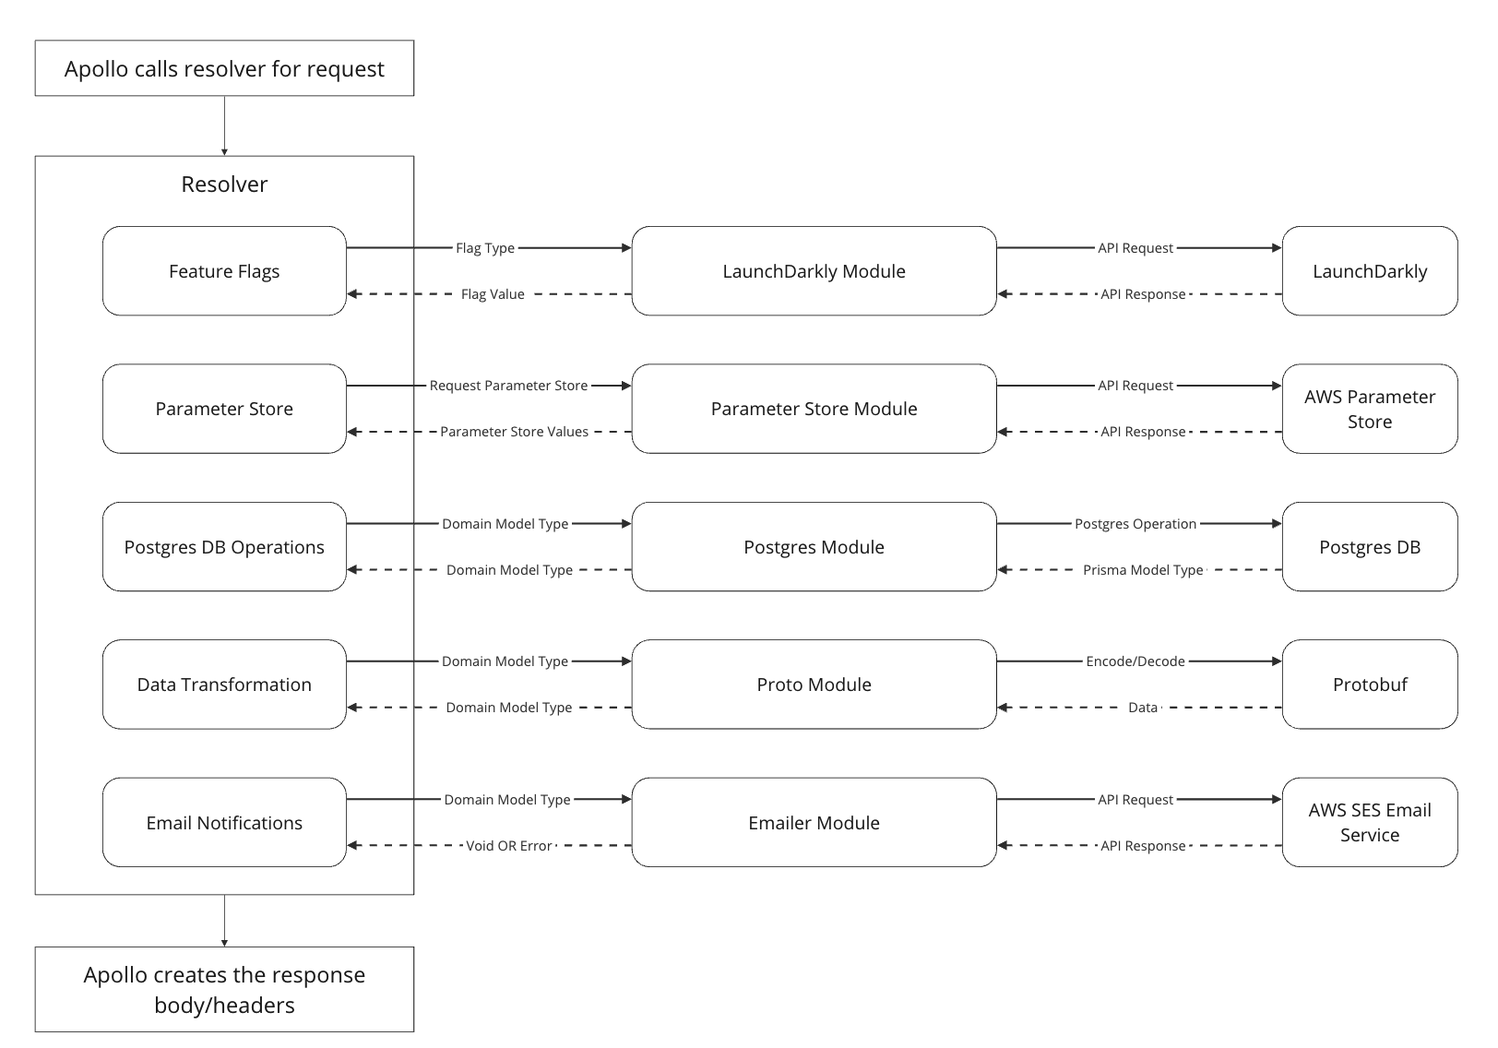
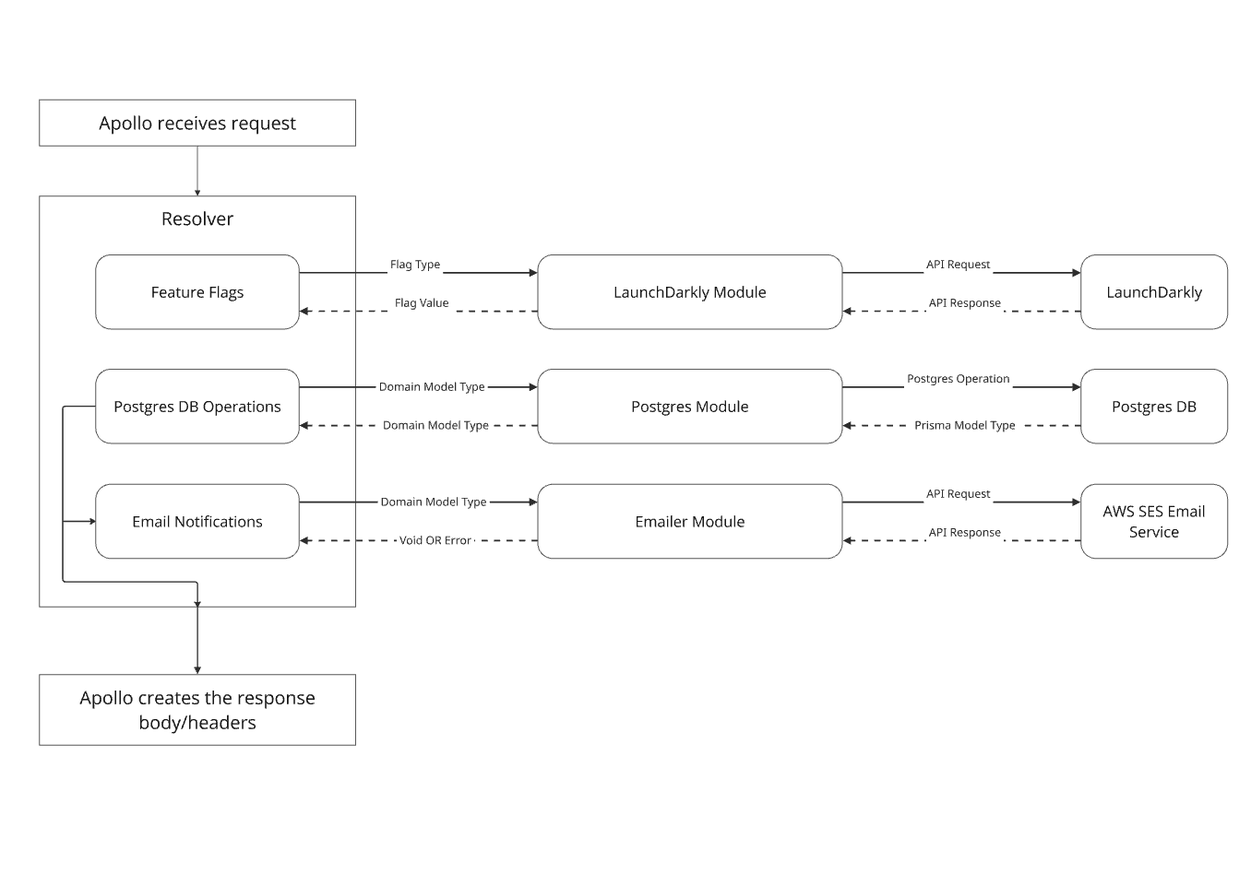
MCR-4193: remove all refs to protobufs in documentation (#3705)
* Replace diagrams

* Update docs

diff --git a/services/app-web/src/pages/SubmissionSideNav/RateSummarySideNav.tsx b/services/app-web/src/pages/SubmissionSideNav/RateSummarySideNav.tsx
@@ -88,7 +88,7 @@ export const RateSummarySideNav = () => {
         }
 
         recordJSException(err)
-        return <GenericErrorPage /> // api failure or protobuf decode failure
+        return <GenericErrorPage /> // api failure
     } else if (!loggedInUser || !rate || rate.status === 'DRAFT') {
         return <GenericErrorPage />
     }

diff --git a/services/app-web/src/pages/SubmissionSideNav/SubmissionSideNav.tsx b/services/app-web/src/pages/SubmissionSideNav/SubmissionSideNav.tsx
@@ -86,7 +86,7 @@ export const SubmissionSideNav = () => {
         }
 
         recordJSException(err)
-        return <GenericErrorPage /> // api failure or protobuf decode failure
+        return <GenericErrorPage /> // api failure
     } else if (!loggedInUser || !contract) {
         return <GenericErrorPage />
     }

diff --git a/README.md b/README.md
@@ -3,7 +3,7 @@
 <a href="https://codeclimate.com/github/Enterprise-CMCS/managed-care-review/maintainability"><img src="https://api.codeclimate.com/v1/badges/9ec6eca87429a4572f67/maintainability" /></a><a href="https://codeclimate.com/github/Enterprise-CMCS/managed-care-review/test_coverage"><img src="https://api.codeclimate.com/v1/badges/9ec6eca87429a4572f67/test_coverage" /></a>
 [![CodeQL](https://github.com/Enterprise-CMCS/managed-care-review/actions/workflows/codeql.yml/badge.svg?branch=main)](https://github.com/Enterprise-CMCS/managed-care-review/actions/workflows/codeql.yml)
 
-Managed Care Review is an application that accepts Managed Care contract and rate submissions from states and packages them for review by CMS. It uses a Serverless architecture (services deployed as AWS Lambdas) with React and Node as client/server and GraphQL as the api protocol. The codebase is a Typescript monorepo. An [architectural diagram](.images/architecture.svg) is also available.
+Managed Care Review is an application that accepts Managed Care contract and rate submissions from states and packages them for review by CMS. It uses a Serverless architecture (services deployed as AWS Lambdas) with React and Node as client/server and GraphQL as the api protocol. The codebase is a TypeScript monorepo. An [architectural diagram](.images/architecture.svg) is also available.
 
 ## Key Documentation
 
@@ -32,8 +32,6 @@ For monorepo tooling we just rely on the workspace configuration of `pnpm`. If g
 To get the tools needed for local development, you can run:
 
 ```bash
-brew tap yoheimuta/protolint
-brew install pnpm direnv shellcheck protolint detect-secrets
 pnpm husky install
 ```
 
@@ -98,7 +96,7 @@ Run all the services locally with the command `./dev local`.
 
 See the above Requirements section if the command asks for any prerequisites you don't have installed.
 
-The ./dev script is written in typescript in `./src`. The entry-point is `./src/dev.ts`, it manages running the moving pieces locally: the API, the database, the file store, and the frontend.
+The ./dev script is written in TypeScript in `./src`. The entry-point is `./src/dev.ts`, it manages running the moving pieces locally: the API, the database, the file store, and the frontend.
 
 Local dev is built around the Serverless plugin [`serverless-offline`](https://github.com/dherault/serverless-offline). `serverless-offline` runs an API gateway locally configured by `./services/app-api/serverless.yml` and hot reloads your lambdas on every save. The plugin [`serverless-s3-local`](https://github.com/ar90n/serverless-s3-local) stands up the local s3 in a similar fashion.
 
@@ -148,7 +146,7 @@ Run web app locally, but configured to run against a deployed backend
 
 #### Run cypress tests in a linux docker container
 
-We've had a number of issues only reproduce in cypress being run in Github Actions. We've added tooling to dev to run our cypress tests locally in a linux docker container which has been able to reproduce those issues. To do so, you'll need to have docker installed and running and run the app locally with `./dev local` like normal to provide the api & postgres & s3 (you could just run those three services if you like). Unfortunately, docker networking is a little weird, so we have to run a separate `web` in order for the cypress tests to be able to reach our app correctly. That's started with `./dev local web --for-docker`. Finally you can run the tests themselves with `./dev test browser --in-docker`. So minimally:
+We've had a number of issues only reproduced in cypress being run in GitHub Actions. We've added tooling to dev to run our cypress tests locally in a linux docker container which has been able to reproduce those issues. To do so, you'll need to have docker installed and running and run the app locally with `./dev local` like normal to provide the api & postgres & s3 (you could just run those three services if you like). Unfortunately, docker networking is a little weird, so we have to run a separate `web` in order for the cypress tests to be able to reach our app correctly. That's started with `./dev local web --for-docker`. Finally, you can run the tests themselves with `./dev test browser --in-docker`. So minimally:
 
 ```bash
 ./dev local --api --postgres --s3
@@ -164,7 +162,7 @@ We are using Postgres as our primary data store and [Prisma](https://prisma.io) 
 
 We describe our database tables and relationships between them in our Prisma schema at /services/app-api/prisma/schema.prisma. If you want to change our database, start by changing [that schema file](https://www.prisma.io/docs/concepts/components/prisma-schema) how you like.
 
-For more suggestions about how to run a migration see [how to complete migrations](/docs//technical-design/howto-migrations.md)
+For more suggestions about how to run a migration, see [how to complete migrations](/docs//technical-design/howto-migrations.md)
 
 ## Build & Deploy in CI
 
@@ -174,17 +172,17 @@ This application is built and deployed via GitHub Actions. See `.github/workflow
 
 This application is deployed into three different AWS accounts: Dev, Val, and Prod. Anytime the main branch is updated (i.e. a PR is merged) we deploy to each environment in turn. If interacting with those accounts directly, each one will require different AWS keys.
 
-In the Dev account, in addition to deploying the main branch, we deploy a full version of the app on every branch that is pushed that is not the main branch. We call these deployments "review apps" since they host all the changes for a PR in a full deployment. These review apps are differentiated by their Serverless "stack" name. This is set to the branch name and all infra ends up being prefixed with it to keep from there being any overlapping.
+In the Dev account, in addition to deploying the main branch, we deploy a full version of the app on every branch that is pushed that is not the main branch. We call these deployments "review apps" since they host all the changes for a PR in a full deployment. These review apps are differentiated by their Serverless "stack" name. This is set to the branch name, and all infra ends up being prefixed with it to keep from there being any overlapping.
 
 #### CI stage skipping script
 
-We have a script (`getChangedServices`) that runs in CI to check if a service needs to be re-deployed due to your most recent commit or if a service can be skipped in order to save CI deploy time. For example, if you're just making changes to `app-web`, it's likely that you won't need to re-deploy any infra services, such as postgres, after an initial branch deploy. However, if you do need your branch to be fully re-deployed, you can add the string `force-ci-run` to your commit message and the entire deploy workflow will be run. If you have a failing Cypress container and want to skip over deploying infra and the application, use the string `cypress re-run` in a commit message and the `getChangedServices` script will skip you to the Cypress run (unit tests will still run, but it still saves time).
+We have a script (`getChangedServices`) that runs in CI to check if a service needs to be re-deployed due to your most recent commit or if a service can be skipped in order to save CI deploy time. For example, if you're just making changes to `app-web`, it's likely that you won't need to re-deploy any infra services, such as postgres, after an initial branch deploys. However, if you do need your branch to be fully re-deployed, you can add the string `force-ci-run` to your commit message and the entire deployment workflow will be run. If you have a failing Cypress container and want to skip over deploying infra and the application, use the string `cypress re-run` in a commit message and the `getChangedServices` script will skip you to the Cypress run (unit tests will still run, but it still saves time).
 
-You can see the deploys for review apps [here](https://github.com/Enterprise-CMCS/managed-care-review/actions/workflows/deploy.yml)
+You can see the deployments for review apps [here](https://github.com/Enterprise-CMCS/managed-care-review/actions/workflows/deploy.yml)
 
 ### Building scripts
 
-When a script gets too complicated, we prefer it not be written in Bash. Since we're using typescript for everything else, we're writing scripts in typescript as well. They are located in /src/scripts and are compiled along with dev.ts any time you execute `./dev`. They can be invoked like `node build_dev/scripts/add_cypress_test_users.js`
+When a script gets too complicated, we prefer it not be written in Bash. Since we're using typescript for everything else, we're writing scripts in TypeScript as well. They are located in /src/scripts and are compiled along with dev.ts any time you execute `./dev`. They can be invoked like `node build_dev/scripts/add_cypress_test_users.js`
 
 ## Infrastructure Dependencies
 
@@ -192,7 +190,7 @@ These dependencies can be installed if you are wanting or needing to run `aws` o
 
 Before beginning, it is assumed you have:
 
-1. Added your public key to your GitHub account
+1. Add your public key to your GitHub account
 2. Cloned this repo locally
 
 The following should install everything you need on macOS:
@@ -205,7 +203,7 @@ brew install awscli shellcheck
 
 AWS access is managed via Active Directory and Cloudtamer.
 
-In order to run commands against a live AWS environment you need to configure AWS keys to grant you authorization to do so. You will need this for sure to run the `./dev hybrid` command, and might be necessary to run any serverless commands directly by hand.
+In order to run commands against a live AWS environment, you need to configure AWS keys to grant you authorization to do so. You will need this for sure to run the `./dev hybrid` command, and might be necessary to run any serverless commands directly by hand.
 
 We can use the `ctkey` tool to make setting up the appropriate access easier, which is described below.
 
@@ -259,7 +257,7 @@ export AWS_ACCOUNT_ID=''
 
 Your `CTKEY_USERNAME` and `CTKEY_PASSWORD` should be the credentials you use to log in to EUA. They will need to be updated whenever your EUA password expires and has been rotated.
 
-Your `AWS_ACCOUNT_ID` is the ID of the environment you wish to access locally. Typically this will be the AWS ID of the dev environment.
+Your `AWS_ACCOUNT_ID` is the ID of the environment you wish to access locally. Typically, this will be the AWS ID of the dev environment.
 
 Currently, `ctkey-wrapper` requires the user to be running the openconnect-tinyproxy
 container [here](https://github.com/trussworks/openconnect-tinyproxy) to connect
@@ -277,18 +275,18 @@ which serverless
 
 This will output the path to the tool, which is likely installed locally to your `~/Library/pnpm/*` path.
 
-We can then verify things are working by running any serverless command , e.g. `cd services/app-api && serverless info --stage main`. This command should print information and not return any Serverless errors around AWS credentials. If you do receive errors about AWS credentials, the tool may have been accidentally installed as a version `> 4.2.3` and you'll need to downgrade to that version. Unfortunately, Serverless decided to break local development by requiring AWS connections in versions after `4.2.3`, so we've pinned our version until we can fully move to AWS CDK in Spring 2025.
+We can then verify things are working by running any serverless command, e.g. `cd services/app-api && serverless info --stage main`. This command should print information and not return any Serverless errors around AWS credentials. If you do receive errors about AWS credentials, the tool may have been accidentally installed as a version `> 4.2.3` and you'll need to downgrade to that version. Unfortunately, Serverless decided to break local development by requiring AWS connections in versions after `4.2.3`, so we've pinned our version until we can fully move to AWS CDK in Spring 2025.
 
 ## Adding a Service
 
-The Serverless framework calls encapsulated units of lambdas + AWS infrastructure a "service", so we've inherited this terminology from that project. All of our services live under the `./services/` directory. If you need to add a new service to the project a few things need to happen:
+The Serverless framework calls encapsulated units of lambdas + AWS infrastructure a "service", so we've inherited this terminology from that project. All of our services live under the `./services/` directory. If you need to add a new service to the project, a few things need to happen:
 
 - Add a `serverless.yml` file to the root directory of this new service. You can copy off of an existing config or run the `serverless` command in `./services/${service-name}` to use one of their starter templates.
 - If this service is going to require js or ts code, you'll want to create a `src` directory as well as copy over the appropriate `tsconfig.json` and `.eslintrc` configs. Refer to one of the existing services to get an idea of how we are currently doing this.
 
 You'll need to add this service to our deployment GitHub Actions workflows:
 
-- If it is only infrastructure it can be added to `./.github/workflows/deploy-infra-to-env.yml`.
+- If it is only infrastructure, it can be added to `./.github/workflows/deploy-infra-to-env.yml`.
 - Services that include application code can be added to `./.github/workflows/deploy-app-to-env.yml`.
 - We have a CI script that skips branch redeploys when possible in `./scripts/get-changed-services/index.ts`. Make sure your service is added to that list.
 

diff --git a/docs/technical-design/creating-and-testing-endpoints.md b/docs/technical-design/creating-and-testing-endpoints.md
@@ -25,12 +25,11 @@ We have two ways to access the Apollo Explorer tool:
 >   - Depending on the user, performing certain GraphQL operations will be restricted. The operation authorization is done in the resolvers, `services/app-api/src/resolvers`.
 >   - For example, a state user will not be allowed to unlock a submission. The GraphQL operation will return an unauthorized error.
 >- Once logged in, input this url `[hostname]/dev/graphql-explorer` to access the tool.
->- Create a new workspace in the operations editor to build a new request (`+` sign in main editor).
->- Use the Documentation panel to create your request. Walk through the schema and select fields to add to your request. Add any input parameters in the `variables` section. For more on usage of the query builder see [video tutorial](https://www.youtube.com/watch?v=j8b0Bda_TIw).
->- If you need to make quickly decode/encode and make changes to protos use [ProtobufPal](https://www.protobufpal.com/). This tool should be used only with test and anonymized data (don't feed any private data in here).
+>- Create a new workspace in the operation editor to build a new request (`+` sign in the main editor).
+>- Use the Documentation panel to create your request. Walk through the schema and select fields to add to your request. Add any input parameters in the `variables` section. For more on usage of the query builder, see [video tutorial](https://www.youtube.com/watch?v=j8b0Bda_TIw).
 
 **External Apollo Explorer Tool**:
->Apollo Explorer is embedded in the local deployment, so there's no need to access it externally, except in rare cases like executing GraphQL operations as user role `ADMIN_USER` when no users with that role has been added.
+>Apollo Explorer is embedded in the local deployment, so there's no need to access it externally, except in rare cases like executing GraphQL operations as user role `ADMIN_USER` when no users with that role have been added.
 >
 >To connect Apollo Explorer to our local GraphQL api, we must manually configure connection settings in the Explorer tool.
 >
@@ -176,7 +175,7 @@ dataExport: () => Promise<DataExportType | undefined>
 And then in the NewPostgresStore:
 
 ```typescript
-dataExport: () => dataExport(client),
+dataExport: () => dataExport(client)
 ```
 
 When we access the store in our app, the dataExport method we defined above will be available to us.
@@ -219,7 +218,7 @@ import { dataExportResolver } from './dataExport'
 And also add it to the Resolvers object. We've made a query, so this line will be added to the query methods.
 
 ```typescript
-dataExport: dataExportResolver(store),
+dataExport: dataExportResolver(store)
 ```
 ### Generating prisma code and types
 
@@ -259,7 +258,7 @@ Specifically, `cmsUserResolver` adds `stateAssignments` to CMS users returned fr
 This is set up in `configureResolvers` just like basic resolvers. In addition, there is code added to `codegen.yml` the config file for our graphql-to-typescript dependency.
     - See `mappers` key in `codegen.yml`. By adding the specific typescript definition we want to be returned, we ensure that our GRAPHQL resolvers return types match types elsewhere in the application.
 
-Again, this isn't needed for every piece of data returned by GraphQL. It is useful when dealing with those data model types that persist through the frontend and backend. They may have long definitions or validators set up outside both Prisma and GraphQL (like health plan package which is defined by proto or rates and contracts which are defined in zod).
+Again, this isn't needed for every piece of data returned by GraphQL. It is useful when dealing with those data model types that persist through the frontend and backend. They may have long definitions or validators set up outside both Prisma and GraphQL (like rate and contract types which are defined in zod).
 
 
 ## Lambda

diff --git a/docs/technical-design/graphql-resovler-design.md b/docs/technical-design/graphql-resovler-design.md
@@ -4,14 +4,15 @@
 Resolver functions are responsible for handling requests made to the MC-Review GraphQL API and populating data for the response on the backend. Between receiving the request data and returning a response, the `app-api` resolvers perform various tasks for generating the response.
 
 These tasks include:
-- Business logic, data transformation, and validations
+- Business logic
+- Validations
 - Database operations
 - Third party API calls
    - SES Email
    - LaunchDarkly Feature Flags
 - Error handling
 
-The resolvers often do not directly contain the code to perform these tasks, instead they call functions specific for each task. Importantly we use types defined in our [domain models](design-patterns.md#domain-models) as the internal communication interface on the backend for different services as an attempt to decrease the coupling of our code.
+The resolvers often do not directly contain the code to perform these tasks; instead, they call functions specific for each task. Importantly, we use types defined in our [domain models](design-patterns.md#domain-models) as the internal communication interface on the backend for different services as an attempt to decrease the coupling of our code.
 
 Many of these functions are accessible from the resolver via [dependency injection](design-patterns.md#dependency-injection) and configured in [apollo_gql.ts](../../services/app-api/src/handlers). There are a few reasons to use dependency injection approach for the resolvers, but the two main points for the API are:
 - Configuration of the dependencies for deployment environments.
@@ -32,12 +33,12 @@ It's important that data from the DB is converted to the domain model before ret
 
 Resolvers are passed Postgres handlers via [dependency injection](design-patterns.md#dependency-injection). The configuration for the Postgres handler dependency and many others are done in [apollo_gql.ts](../../services/app-api/src/handlers).
 
-The diagram below is the data flow diagram for `createHealthPlanPackage` resolver.
+The diagram below is the data flow diagram for `createContract` resolver.
 
 [Miro link](https://miro.com/app/board/o9J_lS5oLDk=/?moveToWidget=3458764573517610448&cot=14)\
 ![postgres-handler-diagram](../../.images/postgres-handler-diagram.png)
 
-Form the diagram above, you can see that `createHealthPlanPackage` resolver calls `insertDraftContract` handler function in the Postgres Module to create a new draft contract.
+Form the diagram above, you can see that `createContract` resolver calls `insertDraftContract` handler function in the Postgres Module to create a new draft contract.
 
 Notice the arrow coming from the resolver to the handler does not directly connect to the `Prisma ORM` this is because most handlers will do more data transformations and validations before passing them off to the `Prisma ORM` to perform the `Postgres` operation.
 
@@ -46,9 +47,7 @@ After performing the operation the `Postgres` data returned to `Prisma ORM` is p
 Any errors that occurs in the handlers should be returned to the resolver to handle.
 
 ### Feature Flag Module
-### Parameter Store Module
 ### Email Notifications Module
-### Proto Module
 ### Validations
 ### Error handling
 

diff --git a/docs/technical-design/error-handling.md b/docs/technical-design/error-handling.md
@@ -24,9 +24,9 @@ For other error codes, we now use helper functions from our `errorUtils.ts` file
 ```typescript
 import { createForbiddenError, createUserInputError } from '../errorUtils'
 
-if (planPackage.stateCode !== stateFromCurrentUser) {
+if (contractWithHistory.stateCode !== stateFromCurrentUser) {
     logError(
-        'submitHealthPlanPackage',
+        'submitContract',
         'user not authorized to fetch data from a different state'
     )
     setErrorAttributesOnActiveSpan(
@@ -38,11 +38,15 @@ if (planPackage.stateCode !== stateFromCurrentUser) {
     )
 }
 
-if (result === undefined) {
-    const errMessage = `A draft must exist to be submitted: ${input.pkgID}`
-    logError('submitHealthPlanPackage', errMessage)
+if (['WITHDRAWN'].includes(draftRate.consolidatedStatus)) {
+    const errMessage = `Attempted to submit a contract with a withdrawn rate. Rate id: ${draftRate.id}`
+    logError('submitContract', errMessage)
     setErrorAttributesOnActiveSpan(errMessage, span)
-    throw createUserInputError(errMessage, 'pkgID')
+    throw createUserInputError(
+        errMessage,
+        'rateID',
+        draftRate.id
+    )
 }
 ```
 

diff --git a/docs/architectural-decision-records/018-changing-form-over-time.md b/docs/architectural-decision-records/018-changing-form-over-time.md
@@ -1,5 +1,7 @@
 # ADR: The Form Changes Over Time
 
+## This ADR is deprecated as we removed Protobufs and the HealthPlanPackage type from the codebase. There is not a superseding ADR on form changing over time. Leaving this ADR here for historical context.
+
 ## Background
 
 The heart of MC Review is the Health Plan Package Form, wherein a state files the contract and rate documents and answers a series of questions all in one place for review by the CMS teams. The app asks all these questions of the states, and then after submission displays the answers to CMS. These questions are not frozen in time, what is relevant to a good review will change over the years, we saw that first hand with respect to COVID 19; when we showed up we asked a question about whether this submission was related to COVID, now that's no longer a useful question to ask so we stripped it from the form. 

diff --git a/services/cypress/README.md b/services/cypress/README.md
@@ -178,7 +178,7 @@ The reason for making direct API request through Cypress was to speed up testing
 We mimicked the same setup in the application in Cypress to make graphql request.
 
 -   `GraphQL`
-    -   Like `app-web` and `app-api`, `cypress` also has a `gen` folder where our `GraphQL` and `ProtoBuf` files will be generated.
+    -   Like `app-web` and `app-api`, `cypress` also has a `gen` folder where our `GraphQL` files will be generated.
     -   Specifically the `schema.graphql` file from the `gen` folder is used in `cypress.config.ts` to configure the `Apollo` client.
         -   In `cypress.config` under `setupNodeEvents` there is a task, `readGraphQLSchema`, that can be called in Cypress to load our `GraphQL` schema and convert it to `gql`.
             ```ts

diff --git a/services/app-api/README.md b/services/app-api/README.md
@@ -56,7 +56,7 @@ Sets up authentication based on environment variables. Options are local or Amaz
 
 ### `/gen`
 
--   This folder is auto-generated by the [`app-graphql`](../app-graphql) and / [`app-proto`](../app-proto) services
+-   This folder is auto-generated by the [`app-graphql`](../app-graphql) service
 
 ## Adding new a new email parameter stores
 

diff --git a/docs/technical-design/launch-darkly-testing-approach.md b/docs/technical-design/launch-darkly-testing-approach.md
@@ -160,7 +160,7 @@ it('does not error when risk based question is undefined and rate-cert-assurance
     })
 
     // setup
-    const initialPkg = await createAndUpdateTestHealthPlanPackage(server, {
+    const initialPkg = await createTestContract(server, {
       riskBasedContract: undefined,
     })
 
